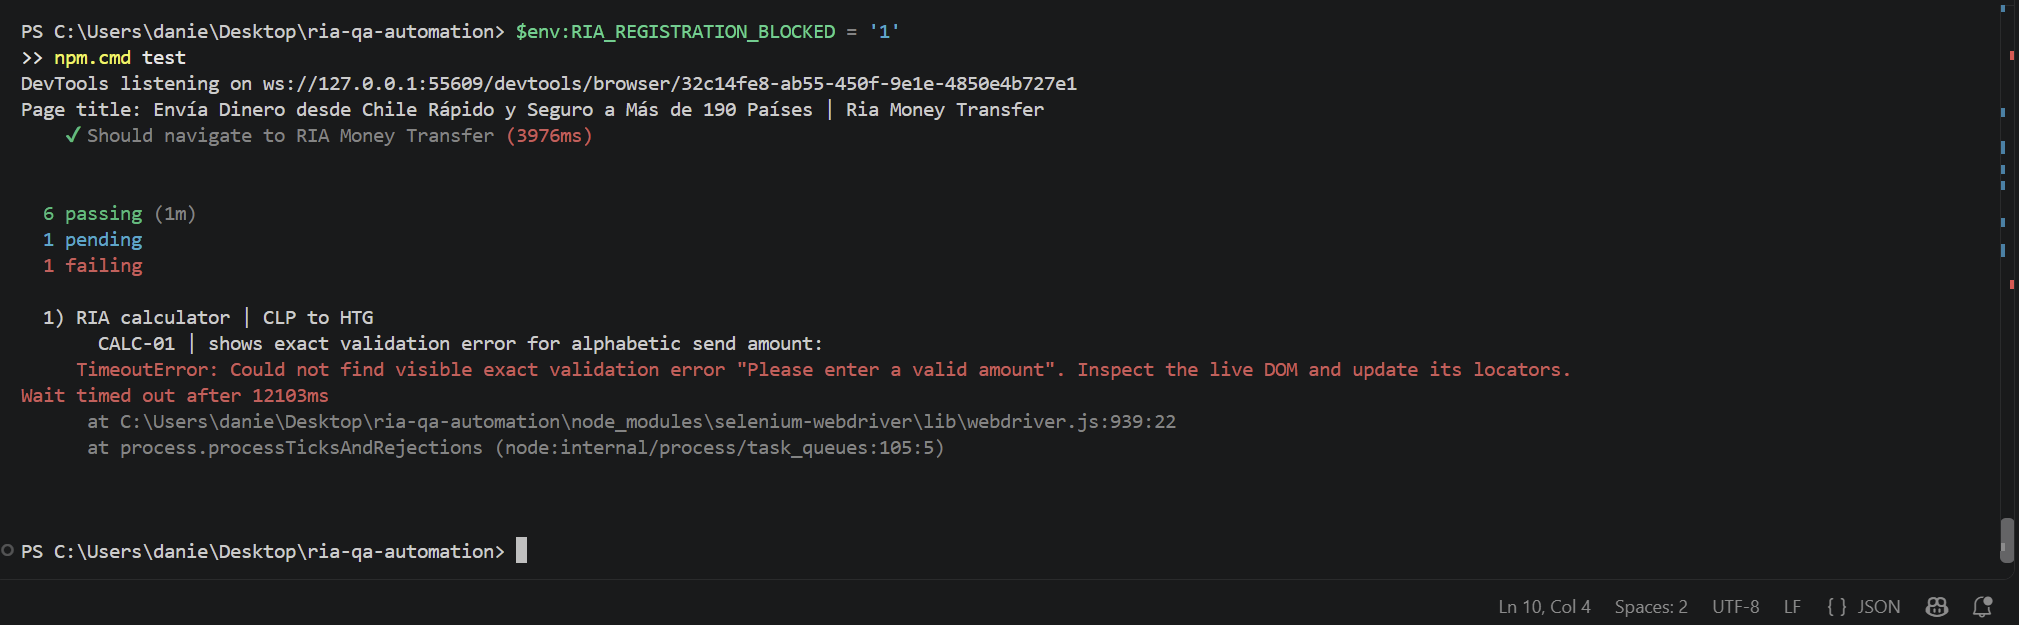
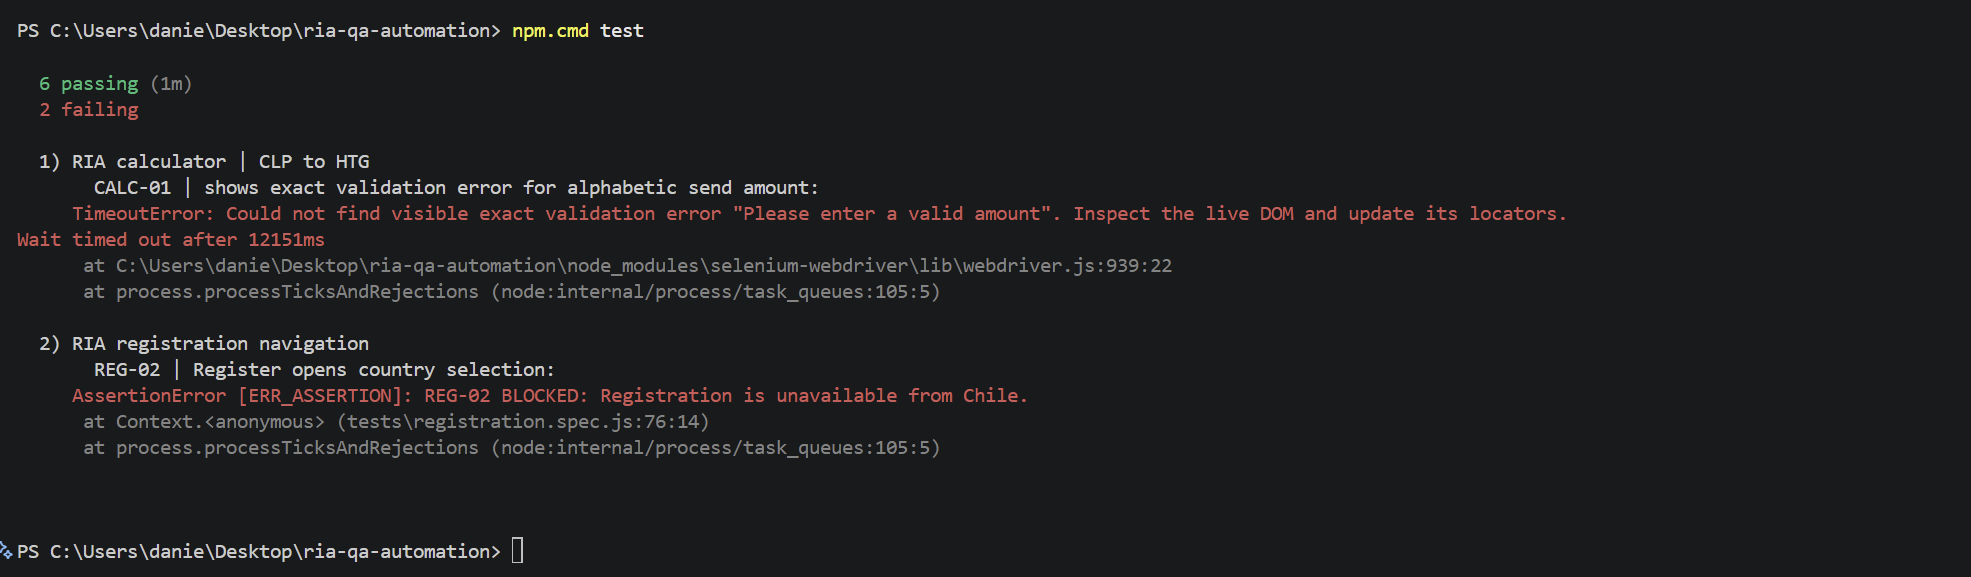
Fix calculator stability and document regional registration restriction

diff --git a/pages/CalculatorPage.js b/pages/CalculatorPage.js
@@ -26,7 +26,6 @@ class CalculatorPage {
     await this.driver.get(ORIGIN);
     await dismissCookies(this.driver);
 
-    // Ensure calculator is ready before interacting.
     await this.amountInput();
   }
 
@@ -70,15 +69,13 @@ class CalculatorPage {
     const input = await this.amountInput();
     await replaceText(input, amount);
   }
+
   async updateAmountAndWaitForQuote(amount) {
 
-    // Capture the previous received amount
     const previousReceived = await this.receivedAmount();
 
-    // Update sending amount
     await this.enterAmount(amount);
 
-    // Verify input was updated correctly
     await this.driver.wait(
       async () => {
         const entered = await this.enteredAmount();
@@ -88,7 +85,6 @@ class CalculatorPage {
       `Send amount was not updated to ${amount}`
     );
 
-    // Wait until the received amount changes
     const updatedReceived =
       await this.waitForReceivedAmountToChange(previousReceived);
 
@@ -98,6 +94,7 @@ class CalculatorPage {
 
     return updatedReceived;
   }
+
   async enteredAmount() {
     const input = await this.amountInput();
 
@@ -168,7 +165,6 @@ class CalculatorPage {
 
     await trigger.click();
 
-    // Wait until the dropdown is actually open.
     await this.driver.wait(
       async () => {
         return (await trigger.getAttribute('aria-expanded')) === 'true';
@@ -184,10 +180,10 @@ class CalculatorPage {
 
   async selectHaiti() {
 
-    // STEP 1: Open destination dropdown.
+    // Open destination dropdown
     await this.openDestinationDropdown();
 
-    // STEP 2: Search for Haiti if search input is available.
+    // Search for Haiti
     const search = await visibleOrNull(this.driver, [
       By.css('input[placeholder*="Search" i]'),
       By.css('input[placeholder*="country" i]'),
@@ -197,10 +193,10 @@ class CalculatorPage {
 
     if (search) {
       await search.click();
-      await search.sendKeys('Haiti');
+      await search.sendKeys('Hait');
     }
 
-    // STEP 3: Select Haiti from country list.
+    // Select Haiti
     const countryOption = await waitForVisible(this.driver, [
       By.xpath(
         "//*[@role='option' and " +
@@ -221,8 +217,7 @@ class CalculatorPage {
 
     await countryOption.click();
 
-    // STEP 4: Select HTG (Haitian Gourde).
-
+    // Select HTG currency
     const htgLocator = By.xpath(
       "//*[@role='dialog']//*[normalize-space(.)='HTG']" +
       "/ancestor::*[self::button or @role='option'][1]"
@@ -260,18 +255,14 @@ class CalculatorPage {
       'HTG currency option is not ready for interaction'
     );
 
-    // Diagnostic information
     console.log(
       'HTG option:',
       await currencyOption.getAttribute('outerHTML')
     );
 
-    // Click the actual currency option
     await currencyOption.click();
 
-    // STEP 5: Verify HTG is selected in the calculator
-    // and the destination dialog has closed.
-
+    // Verify destination currency selection
     await this.driver.wait(
       async () => {
         const trigger = await this.driver.findElement(
@@ -286,31 +277,6 @@ class CalculatorPage {
       10000,
       'HTG was not selected or destination dropdown remains open'
     );
-
-    // STEP 6: Ensure no visible dialog intercepts
-    // subsequent interactions with the calculator.
-
-    await this.driver.wait(
-      async () => {
-        const dialogs = await this.driver.findElements(
-          By.css('[role="dialog"]')
-        );
-
-        for (const dialog of dialogs) {
-          try {
-            if (await dialog.isDisplayed()) {
-              return false;
-            }
-          } catch {
-            // Dialog may have been removed during the animation.
-          }
-        }
-
-        return true;
-      },
-      10000,
-      'Destination dialog is still visible after selecting HTG'
-    );
   }
 
   // =========================================================
@@ -319,11 +285,9 @@ class CalculatorPage {
 
   async visibleExchangeRate() {
 
-    // Use the exchange rate displayed in the calculator.
     const bodyText = await this.driver
       .findElement(By.tagName('body'))
       .getText();
-    // TEMPORARY DEBUG: Inspect the actual quote displayed by RIA.
 
     const quoteIndex = bodyText.search(
       /Quote details|Your first transfer|You send|Detalles de la cotización/i

diff --git a/tests/registration.spec.js b/tests/registration.spec.js
@@ -58,9 +58,24 @@ describe('RIA registration navigation', function () {
   it('REG-02 | Register opens country selection', async function () {
     await registration.clickRegister();
 
-    if (process.env.RIA_REGISTRATION_BLOCKED === '1') {
-      console.log('BLOCKED: Registration unavailable from Chile.');
-      this.skip();
+    const isRegionBlocked = await driver.wait(
+      async () => {
+        const text = await driver.executeScript(
+          'return document.body.innerText'
+        );
+
+        return /no puedes registrar\s+una cuenta en Chile/i.test(text);
+      },
+      5000
+    ).catch(error => {
+      if (error.name === 'TimeoutError') return false;
+      throw error;
+    });
+
+    if (isRegionBlocked) {
+      assert.fail(
+        'REG-02 BLOCKED: Registration is unavailable from Chile.'
+      );
     }
 
     const countrySelection = await registration.waitForCountrySelection();

diff --git a/README.md b/README.md
@@ -12,7 +12,7 @@ UI end-to-end tests using **Selenium WebDriver, JavaScript and Mocha**, plus a *
 | CALC-03 | Convert 25,000 CLP to HTG and validate the received amount | **PASS** |
 | CALC-04 | Updating the send amount updates the conversion | **PASS** |
 | REG-01 | Get Started opens the secure RIA site; registration link, phone/email and password fields are visible | **PASS** |
-| REG-02 | Register opens the country-selection page | **NOT VERIFIED** - Regional restriction observed from Chile; marked pending when explicitly configured. |
+| REG-02 | Register opens the country-selection page | **FAIL (BLOCKED)** - RIA explicitly prevents account registration from Chile. The test detects the restriction and reports a descriptive failure. |
 | SMOKE | Public RIA page loads | **PASS** - Additional infrastructure check. |
 | API-GET | GET `/posts/`: status 200, nonempty titles/bodies, no `zombie` | **PASS** - 4 Postman assertions. |
 | API-POST | POST `/post`: status 200/201, required toppings, no `chicken` | **PASS** - 4 Postman assertions. |
@@ -46,12 +46,7 @@ npm run test:registration
 
 On Windows PowerShell, use `npm.cmd` for the commands above if needed.
 
-For executions from the Chilean environment where the registration-country flow is unavailable:
-
-```powershell
-$env:RIA_REGISTRATION_BLOCKED = '1'
-npm.cmd test
-```
+Without the flag, REG-02 executes its full assertion and may fail in that environment.
 
 This flag **explicitly skips REG-02** after navigation to registration. It does not validate the country-selection page and does not automatically detect a regional restriction. Without the flag, REG-02 executes its full assertion and may fail in that environment.
 
@@ -84,7 +79,56 @@ The POST request uses the JSON body specified in the challenge, including the to
 - **Conversion assertion:** CALC-03 checks the received amount against the rate displayed by RIA, using a tolerance for rate precision and rounding. The test does not use a hard-coded exchange rate.
 - **Transparent results:** Failed and unverified acceptance criteria are reported, not converted into artificial passes.
 
-## Execution results - November 16, 2026
+## Execution results
+
+### Selenium
+
+The latest complete execution on November 16, 2026 reported 6 passing, 1 failing and 1 pending.
+
+On November 17, 2026, REG-02 was updated and executed independently. It now detects the regional registration restriction and reports a descriptive failure instead of being skipped.
+
+The complete Selenium suite was executed on November 17, 2026.
+
+Results: 6 passed, 2 failed.
+
+CALC-01: The application does not display the required validation message.
+
+REG-02: Account registration is blocked from Chile. The test detects the regional restriction and reports a descriptive failure.
+
+Both failures are documented in docs/QA_NOTES.md.
+
+### Postman
+
+- 8 assertions passed.
+- 0 failures.
+
+### Conversion validation
+
+During testing, RIA displayed a promotional exchange rate of **0.131066 HTG per CLP**.
+
+For 25,000 CLP, the calculator returned **3,276.65 HTG**, matching the displayed rate.
+
+This is a recorded test result, not a fixed exchange rate.
+
+### Findings and limitations
+
+**CALC-01 - Requirement discrepancy**
+
+Entering alphabetic characters (`abc`) leaves the amount field empty. The required message `Please enter a valid amount` is not displayed, even after the field loses focus.
+
+**REG-02 - Regional restriction**
+
+RIA displays the following message:
+
+"No se ha podido registrar la cuenta. Según tu ubicación actual, no puedes registrar una cuenta en Chile."
+
+The automated test detects this restriction and reports:
+
+`REG-02 BLOCKED: Registration is unavailable from Chile.`
+
+The country-selection acceptance criterion remains unverified because the application prevents continuing from the tested location.
+
+Further details are available in `docs/QA_NOTES.md`.
 
 **Selenium:** 6 passing, 1 failing (CALC-01), 1 pending (REG-02, explicitly skipped using `RIA_REGISTRATION_BLOCKED=1`). The six passing tests include the additional CALC-01B and SMOKE checks.
 

diff --git a/docs/QA_NOTES.md b/docs/QA_NOTES.md
@@ -35,7 +35,7 @@
 | CALC-03 | PASS | 25,000 CLP converted to 3,276.65 HTG using the displayed promotional rate of 0.131066. |
 | CALC-04 | PASS | Converted amount updates when the sending amount changes. |
 | REG-01 | PASS | Secure navigation and required login elements validated. |
-| REG-02 | BLOCKED | Registration restriction observed from Chile. Test marked pending through environment configuration. |
+| REG-02 | BLOCKED (FAIL) | RIA explicitly prevents account registration from Chile. The expected country selection page cannot be reached. |
 | SMOKE | PASS | RIA homepage loads successfully. |
 | API-GET | PASS | All four Postman assertions passed. |
 | API-POST | PASS | All four Postman assertions passed. |
@@ -44,7 +44,7 @@
 
 **CALC-01:** The application rejects alphabetic characters without displaying the exact validation message required by the acceptance criteria. The original assertion remains unchanged.
 
-**REG-02:** Registration was restricted from the tested Chilean environment. The scenario has not been functionally validated.
+**REG-02:** Registration is blocked by RIA based on the user's geographic location. The application displays: "Según tu ubicación actual, no puedes registrar una cuenta en Chile". The test detects this restriction and reports a descriptive failure. This is an environment limitation, not a confirmed application defect.
 
 ### Test Evidence
 
